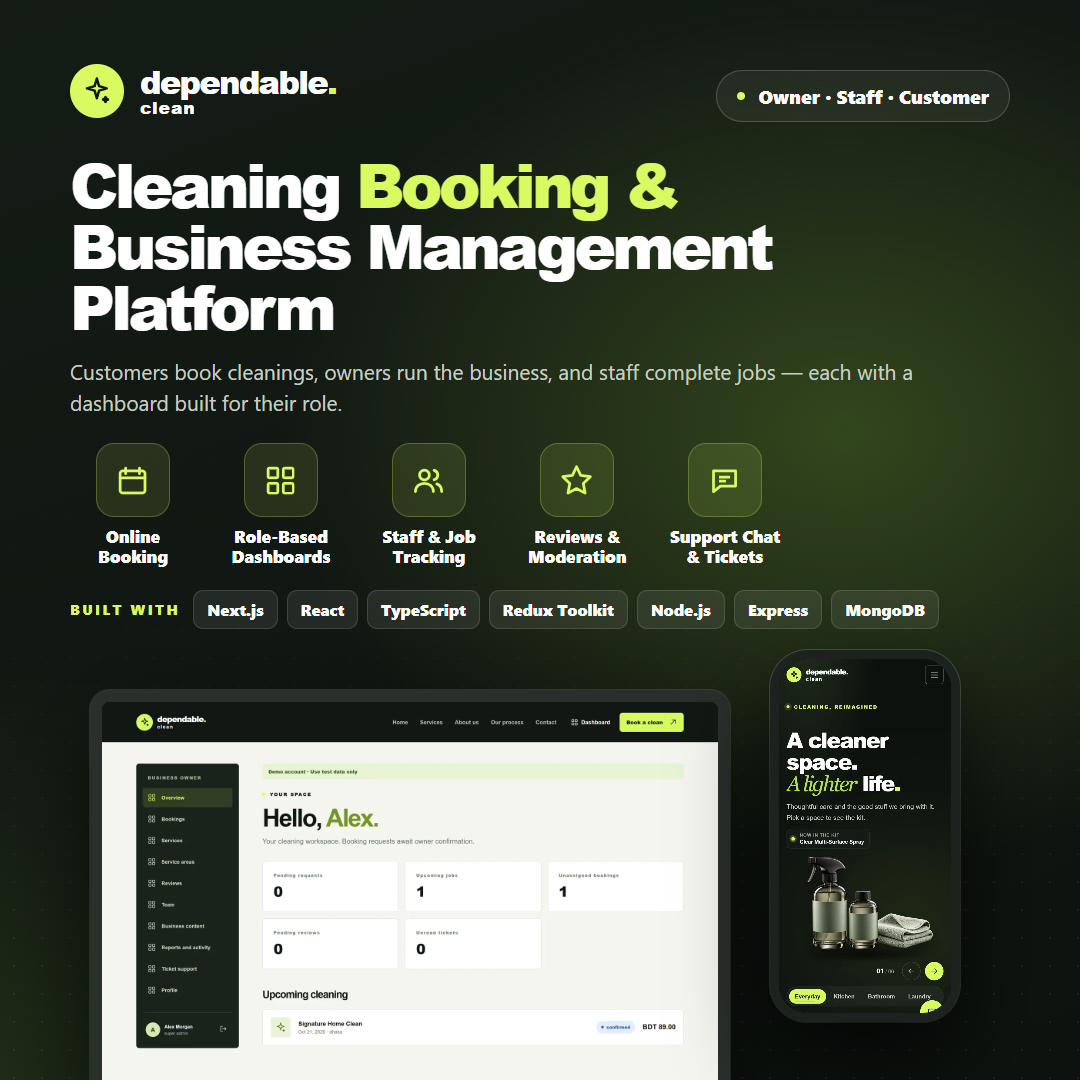
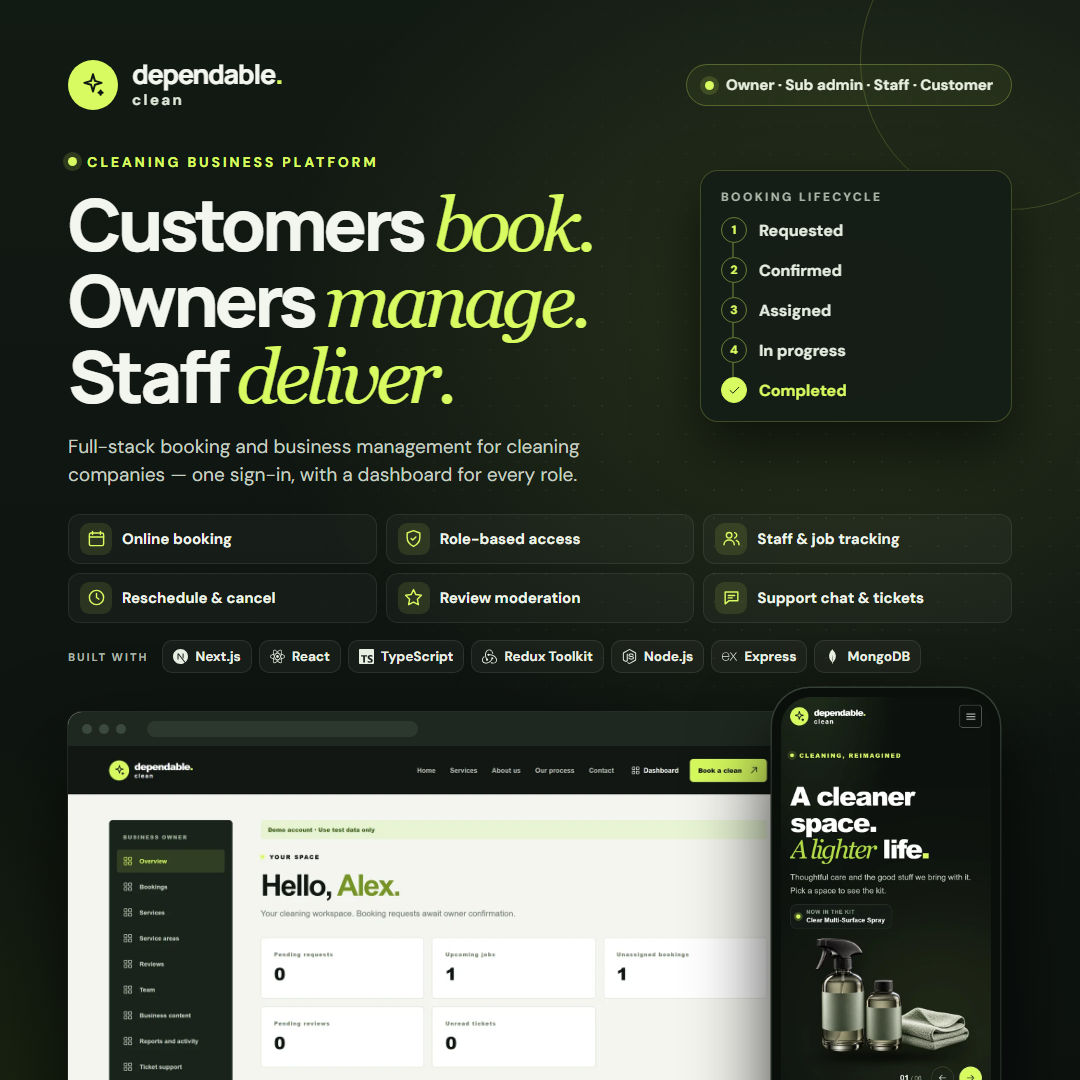
Redesign cover images and show the cover in the README

diff --git a/README.md b/README.md
@@ -1,5 +1,7 @@
 # Dependable Clean
 
+![Dependable Clean: cleaning booking and business management platform](frontend/public/landing/cover.png)
+
 **Live website:** [dependable-clean-client.vercel.app](https://dependable-clean-client.vercel.app/)
 
 Dependable Clean is a website for a cleaning business. Customers book a cleaning, the owner manages the business, and staff go out and do the jobs. Everyone signs in and lands on the same dashboard, but each person only sees what their role allows.
